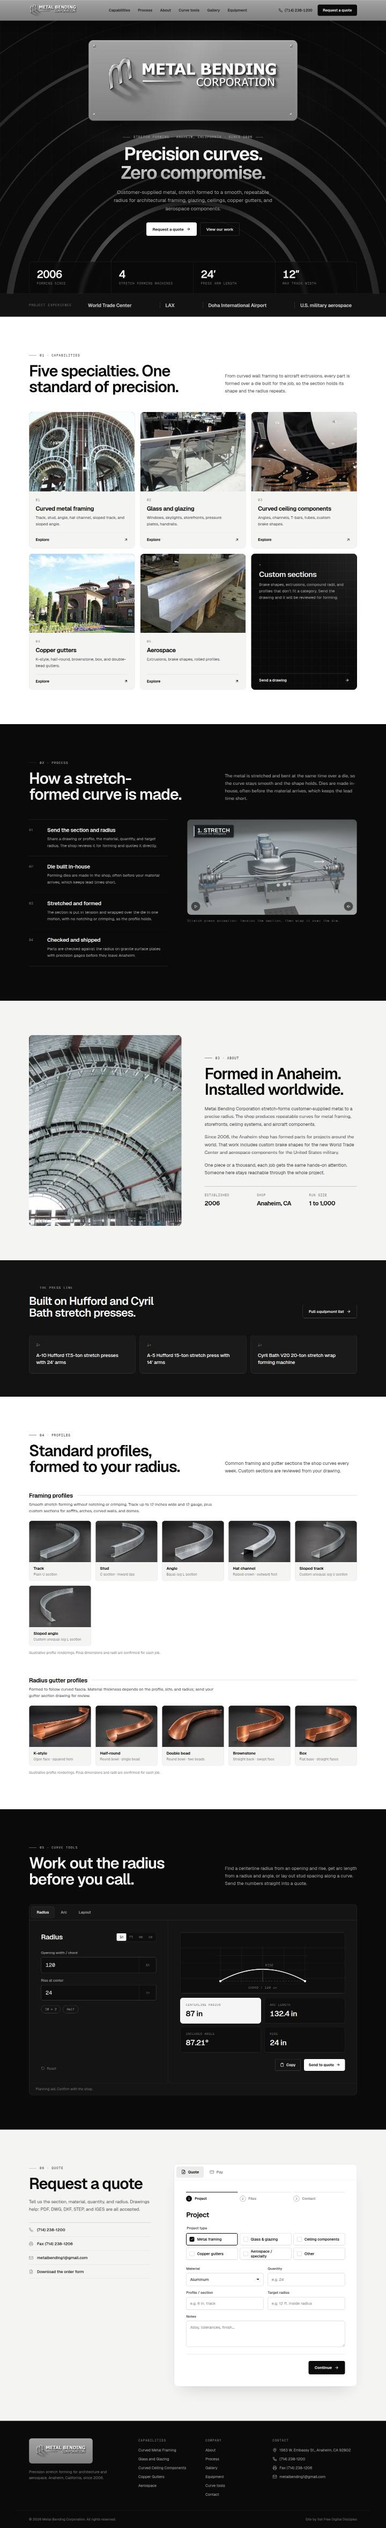
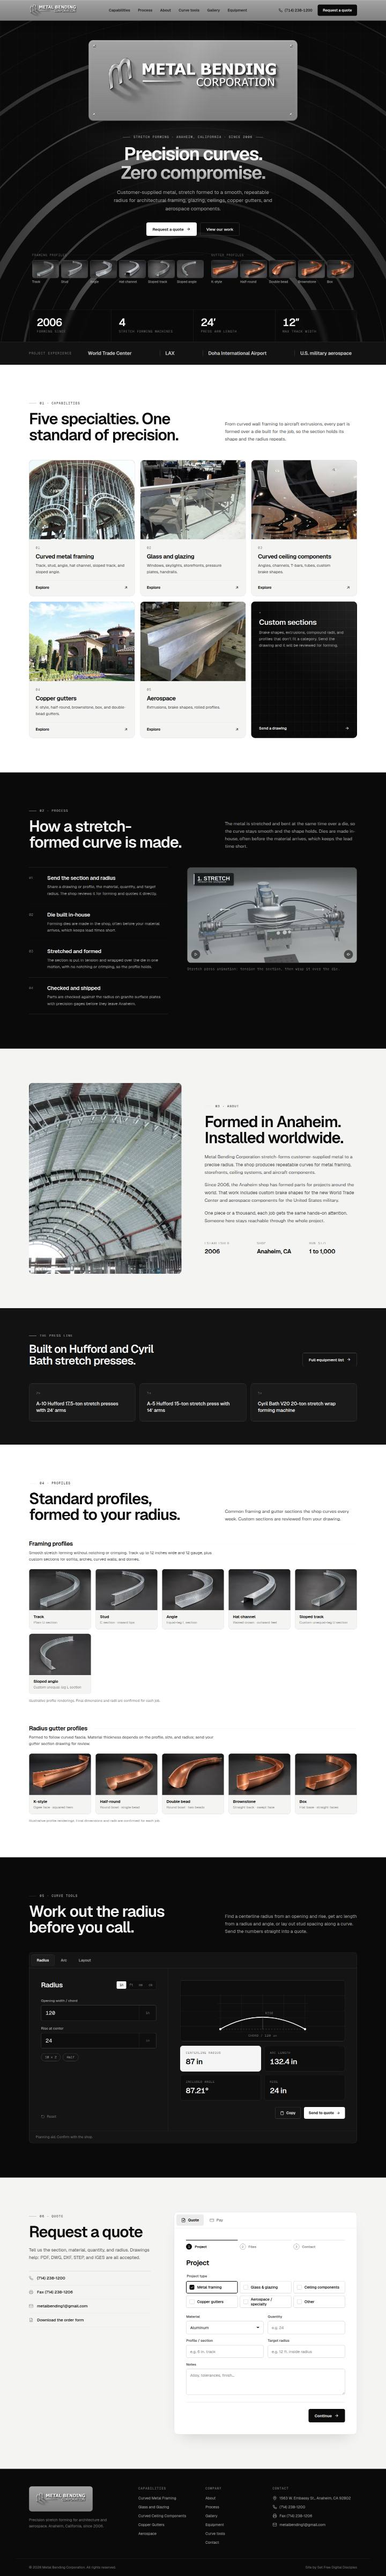
Show every framing and gutter profile in a compact hero strip
Add the six framing and five gutter profiles as small linked tiles under
the hero buttons, grouped by type; on phones the strip scrolls sideways.

Claude-Session: https://claude.ai/code/session_01VgFvnvLv1Y8JWtfQVesCJY

diff --git a/app/globals.css b/app/globals.css
@@ -610,6 +610,97 @@ p {
   justify-content: center;
 }
 
+/* A compact run of every standard profile, framing then gutters. */
+.hero-profiles {
+  animation: reveal-up 900ms 550ms var(--ease) both;
+  display: flex;
+  gap: 28px;
+  justify-content: center;
+  margin-top: clamp(44px, 5vw, 64px);
+  max-width: 100%;
+}
+
+.hero-profile-group {
+  display: flex;
+  flex-direction: column;
+  flex-shrink: 0;
+  gap: 12px;
+}
+
+.hero-profile-group > p {
+  align-items: center;
+  white-space: nowrap;
+  color: var(--fg-3);
+  display: flex;
+  font-family: var(--font-mono);
+  font-size: 11px;
+  gap: 10px;
+  letter-spacing: 0.14em;
+  margin: 0;
+  text-transform: uppercase;
+}
+
+.hero-profile-group > p::after {
+  background: var(--line);
+  content: "";
+  flex: 1;
+  height: 1px;
+}
+
+.hero-profile-group ul {
+  display: flex;
+  gap: 8px;
+  list-style: none;
+  margin: 0;
+  padding: 0;
+}
+
+.hero-profile-group a {
+  display: flex;
+  flex-direction: column;
+  gap: 6px;
+  width: clamp(72px, 7vw, 100px);
+}
+
+.hero-profile-image {
+  aspect-ratio: 3 / 2;
+  background: #2a2a2a;
+  border: 1px solid var(--line);
+  border-radius: 8px;
+  display: block;
+  overflow: hidden;
+  position: relative;
+  transition: border-color 200ms ease, transform 300ms var(--ease);
+}
+
+.hero-profile-image img {
+  object-fit: cover;
+  transition: transform 500ms var(--ease);
+}
+
+.hero-profile-group a:hover .hero-profile-image {
+  border-color: var(--line-strong);
+  transform: translateY(-3px);
+}
+
+.hero-profile-group a:hover .hero-profile-image img {
+  transform: scale(1.08);
+}
+
+.hero-profile-label {
+  color: var(--fg-2);
+  font-size: 12px;
+  font-weight: 500;
+  overflow: hidden;
+  text-align: left;
+  text-overflow: ellipsis;
+  white-space: nowrap;
+}
+
+.hero-profile-group a:hover .hero-profile-label {
+  color: var(--fg);
+}
+
 .hero-stats {
   backdrop-filter: blur(6px);
   background: rgba(10, 10, 10, 0.55);
@@ -2741,6 +2832,30 @@ address.footer-col svg {
 
   .hero-stats {
     grid-template-columns: repeat(2, minmax(0, 1fr));
+  }
+
+  .hero-profiles {
+    -ms-overflow-style: none;
+    gap: 20px;
+    justify-content: flex-start;
+    margin-inline: calc(-1 * clamp(20px, 4vw, 48px));
+    overflow-x: auto;
+    padding-inline: clamp(20px, 4vw, 48px);
+    scroll-snap-type: x proximity;
+    scrollbar-width: none;
+    width: calc(100% + 2 * clamp(20px, 4vw, 48px));
+  }
+
+  .hero-profiles::-webkit-scrollbar {
+    display: none;
+  }
+
+  .hero-profile-group ul li {
+    scroll-snap-align: start;
+  }
+
+  .hero-profile-group a {
+    width: 88px;
   }
 
   .hero-stats > div:nth-child(3) {

diff --git a/app/page.tsx b/app/page.tsx
@@ -69,6 +69,19 @@ const heroStats = [
   { value: "12″", label: "Max track width" },
 ];
 
+const heroProfileGroups = [
+  {
+    label: "Framing profiles",
+    href: "/curved-metal-framing#profiles",
+    items: specialties.find((item) => item.slug === "curved-metal-framing")!.catalog!.flatMap((group) => group.items),
+  },
+  {
+    label: "Gutter profiles",
+    href: "/copper-gutters#profiles",
+    items: specialties.find((item) => item.slug === "copper-gutters")!.catalog!.flatMap((group) => group.items),
+  },
+];
+
 const projectProof = [
   "World Trade Center",
   "LAX",
@@ -133,6 +146,25 @@ export default async function Home({
                   View our work
                 </Link>
               </div>
+            </div>
+            <div className="hero-profiles" aria-label="Standard profiles">
+              {heroProfileGroups.map((group) => (
+                <div key={group.label} className="hero-profile-group">
+                  <p>{group.label}</p>
+                  <ul>
+                    {group.items.map((item) => (
+                      <li key={item.profile}>
+                        <Link href={group.href} title={`${item.label}: ${item.description}`}>
+                          <span className="hero-profile-image">
+                            <Image src={`/profiles/v2/${item.profile}.webp`} alt={item.alt} fill sizes="120px" />
+                          </span>
+                          <span className="hero-profile-label">{item.label}</span>
+                        </Link>
+                      </li>
+                    ))}
+                  </ul>
+                </div>
+              ))}
             </div>
             <dl className="hero-stats">
               {heroStats.map((stat) => (
